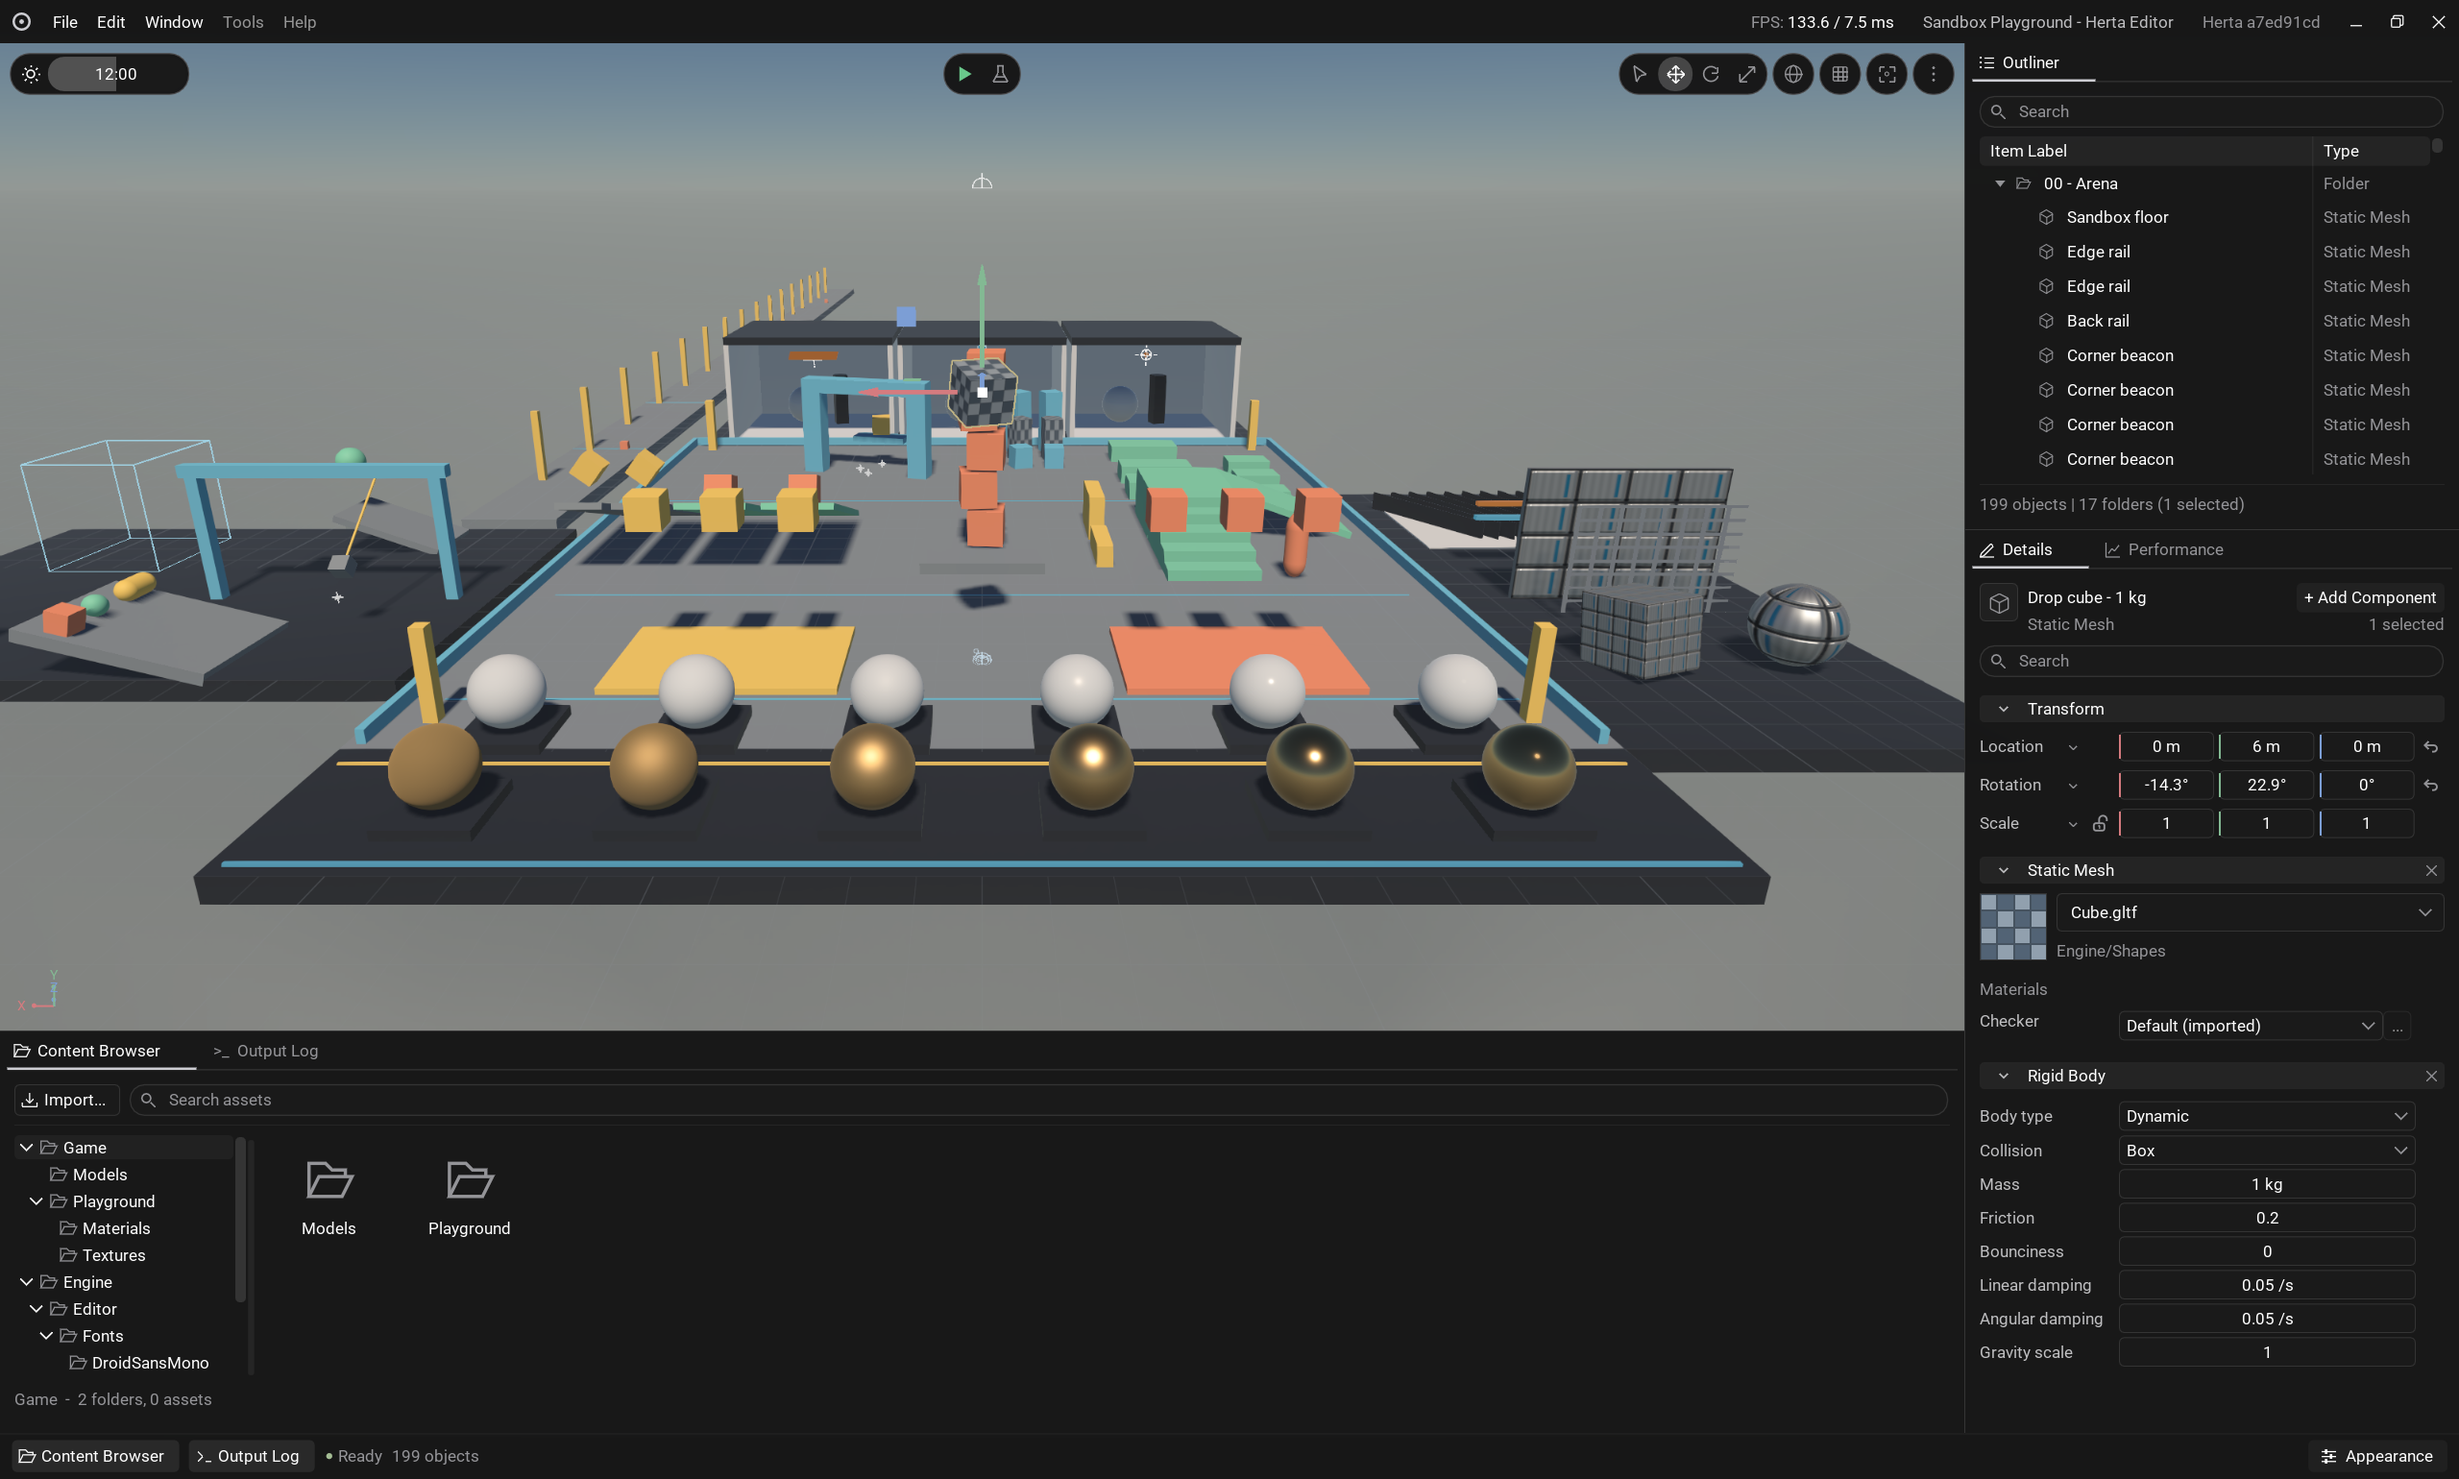
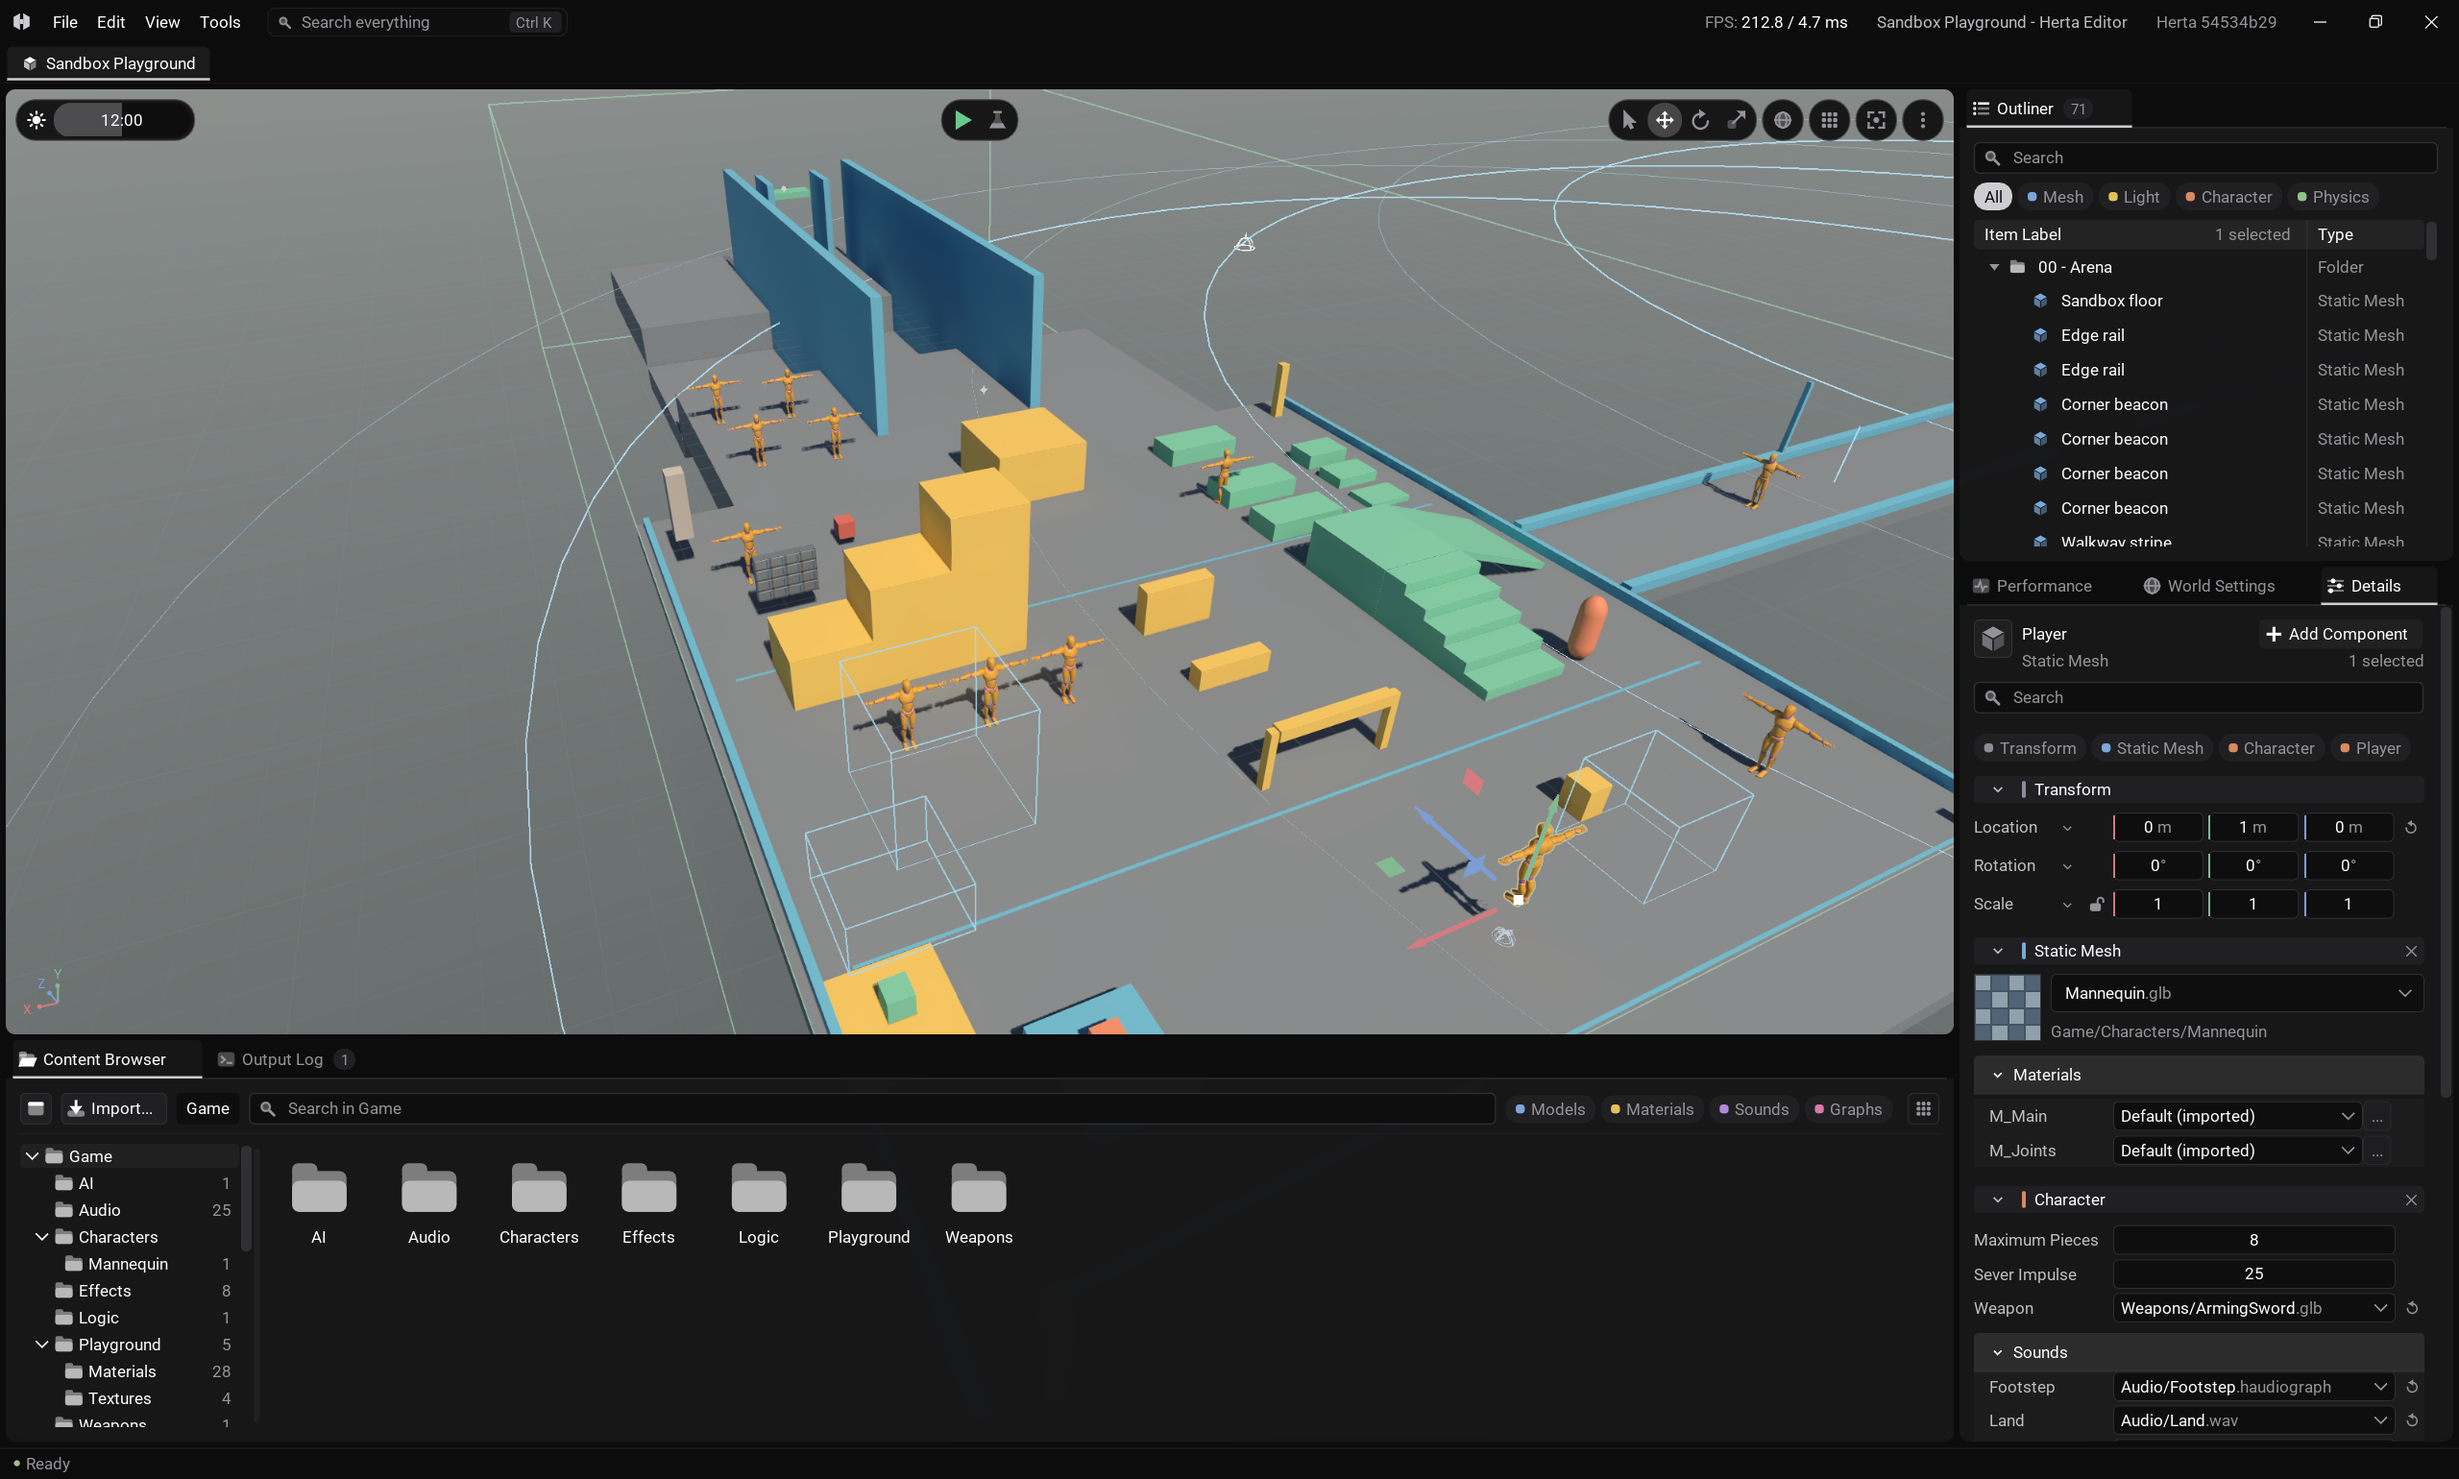
Updated the README and its screenshot

diff --git a/README.md b/README.md
@@ -2,7 +2,7 @@
 
 A C++23 game engine for Windows and Linux, built around Vulkan. Inspired by Unreal Engine, with a modular architecture.
 
-Herta is a learning project in active development, not a production-ready engine. Author levels with undo/redo, editable PBR materials, lights and shadows, sky/atmosphere, volumetric fog, and SMAA. The editor includes asset import, live reimport, deterministic Jolt Physics with destruction, Material Graphs, and Play with an animated first-person or third-person character; the standalone game packages the same session and plays it alone, hosted, or against a dedicated server. Coding agents can drive a running editor over MCP.
+Herta is a learning project in active development, not a production-ready engine. Author levels with undo/redo, editable PBR materials, lights and shadows, sky/atmosphere, volumetric fog, and SMAA, with hardware ray-traced global illumination, reflections, and a reference path tracer on supported GPUs. The editor includes asset import, live reimport, deterministic Jolt Physics with destruction, graph editors for materials, animation, audio, VFX, gameplay, and StateTrees, game modules that hot reload, plugins, and Play with an animated parkour character, sword combat, and AI guards; the standalone game packages the same session and plays it alone, hosted, or against a dedicated server. The editor speaks English, Polish, and Russian, and coding agents can drive it over MCP.
 
 ![Herta Editor](.github/Herta.png)
 
@@ -50,6 +50,7 @@ make --directory=Intermediate/ProjectFiles/gmake --jobs=2 config=development Her
 - [Materials](Docs/Materials.md) - PBR assets, texture maps, live editing, and custom shaders.
 - [Engine design](Docs/EngineDesign.md) - architecture and roadmap.
 - [Game runtime](Docs/Game.md) - HertaGame, editor Play, staging, and packaging.
+- [Gameplay Graphs](Docs/GameplayGraphs.md) - event graphs that run on entities, interpreted in development and generated as C++ for Shipping.
 - [Physics](Docs/Physics.md) and [Animation](Docs/Animation.md) - determinism, collision, destruction, skinned characters, and state machines.
 - [Audio](Docs/Audio.md) - the mixer, streaming, Audio Graphs, and component sounds.
 - [Particles](Docs/Particles.md) and [World streaming](Docs/WorldStreaming.md) - VFX Graphs, the particle runtime, and streamed level regions.
@@ -59,9 +60,9 @@ make --directory=Intermediate/ProjectFiles/gmake --jobs=2 config=development Her
 - [Plugins](Docs/Plugins.md) - editor plugins, safe mode, and the Git and Terminal plugins.
 - [Distribution](Docs/Distribution.md) - signed zstd content packages, embedded executables, HertaCooker, and data mods.
 - [Localization](Docs/Localization.md) - CLDR cultures, messages with plurals, catalogs, language packs, HarfBuzz text, and the translation editor.
-- [Next milestone](Docs/EngineDesign.md#milestone-15---graph-domains) - graph domains, while editor automation over MCP keeps growing.
+- [Next milestone](Docs/EngineDesign.md#milestone-18---advanced-rendering-and-acoustics) - advanced rendering and acoustics.
 - [Asset pipeline](Docs/AssetPipeline.md) - import, cooking, and asset formats.
-- [Rendering](Docs/Rendering.md), [scaling tests](Docs/Scaling.md), and [editor style](Docs/EditorStyle.md) - implementation details.
+- [Rendering](Docs/Rendering.md), [HDR output](Docs/HdrOutput.md), [scaling tests](Docs/Scaling.md), and [editor style](Docs/EditorStyle.md) - implementation details.
 
 ## License
 
